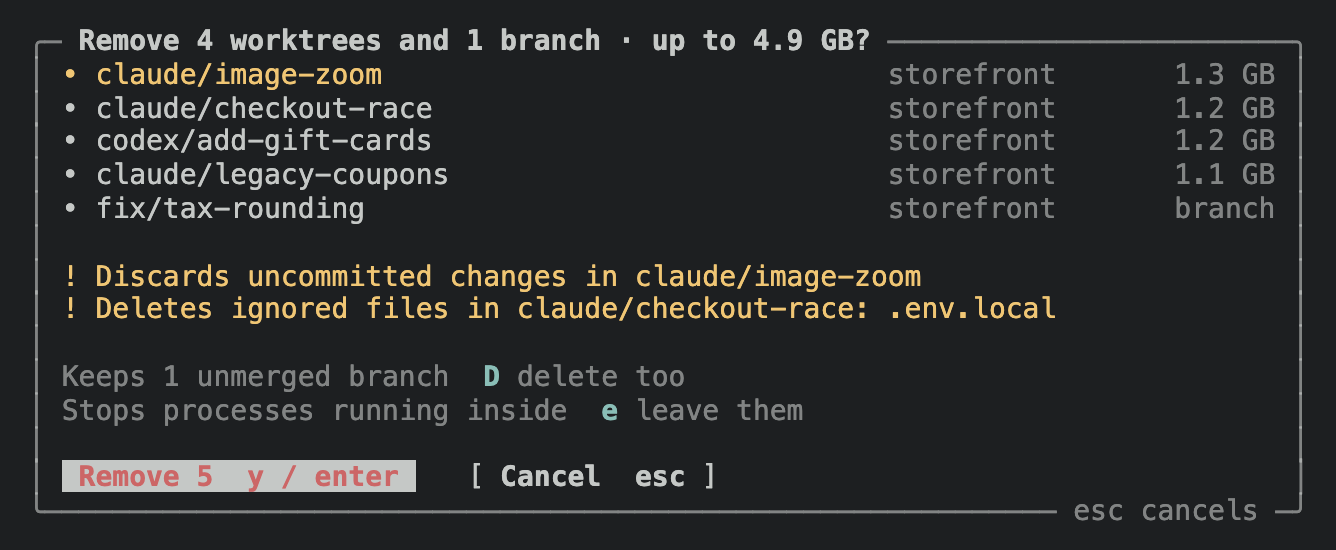
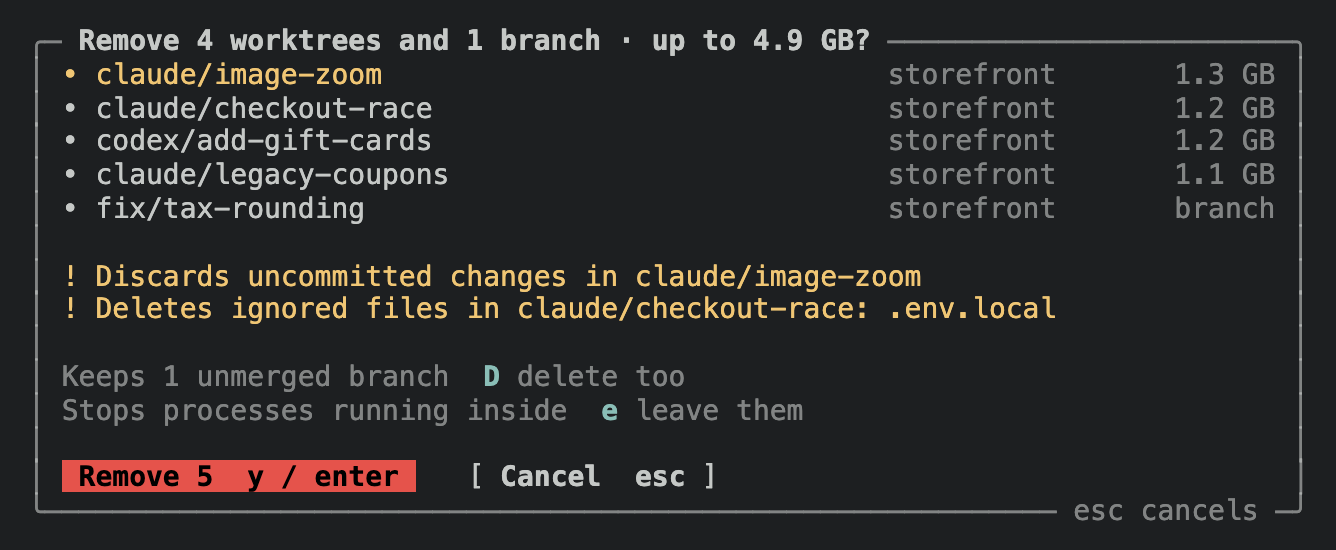
fix: make the dialogs' confirm button readable in dark and light terminals (#61)
## Symptom

The remove dialog's confirm button, `Remove N y / enter`, showed red
text on the terminal's foreground color instead of a red block: red on
light gray in a dark theme, red on near-black in a light theme. Both are
hard to read, and it is the dialog's main action. The prune dialog's
`Prune y / enter` had the same problem. The README's remove-dialog image
showed it too.

## Root cause

`buttons()` in `src/ui/render/dialogs.ts` styled the button `{ fg:
theme.broken, reverse: true }`. OpenTUI applies reverse by swapping the
foreground and background in its buffer and *also* emits the reverse
attribute, so the terminal swaps them back. `capture-pane -e` showed
`ESC[0;1;7mESC[48;5;1m`: red background plus reverse, which reads as red
text on the foreground color. Reverse with no foreground color (the
active tab, the search cursor) emits only `7` and renders as intended.
No other place in `src/ui` combines a foreground color with reverse.

## Fix

The button no longer uses reverse. It sets both colors from two new
theme entries, `confirmBg` and `confirmFg`, picked by the terminal's
light or dark mode the way `focusBg` and `toastBg` are (#59):

- dark (and unknown) mode: bold black on `#e5534b`
- light mode: bold white on `#c62828`

Text contrast is 5.7:1 and 5.6:1. The block stands out from the
terminal: 4.5:1 against a `#1d1f21` dark background, 5.6:1 against
white. The theme switches live when the terminal does.

Alternatives considered:
[…]

Changed region(s): [[0.0307, 0.8345, 0.3376, 0.8964]]

diff --git a/tests/e2e/regressions.test.ts b/tests/e2e/regressions.test.ts
@@ -2,7 +2,9 @@ import { expect, test } from "bun:test";
 import { chmod, mkdir, rm, stat, utimes } from "node:fs/promises";
 import { join } from "node:path";
 import type { Subprocess } from "bun";
+import { TextAttributes } from "@opentui/core";
 import { sizeLabel } from "../../src/ui/format";
+import { createTheme } from "../../src/ui/theme";
 import {
   dialog,
   dialogRow,
@@ -402,3 +404,46 @@ for (const width of [120, 80]) {
     TEST_TIMEOUT,
   );
 }
+
+test(
+  "#61: the remove and prune dialogs' confirm button is contrasting text on a red block, never reverse video, in dark and light terminals",
+  () =>
+    inSandbox(async (sandbox) => {
+      const repo = await sandbox.repo("alpha");
+      await repo.mergedWorktree("done");
+      await repo.deletedWorktree("gone");
+      await withApp(sandbox, { width: 120, name: "B58" }, async (app) => {
+        const button = async (label: string) => {
+          const span = await app.span(label);
+          return (
+            span && {
+              fg: span.fg.toInts(),
+              bg: span.bg.toInts(),
+              reverse: span.attributes & TextAttributes.INVERSE,
+            }
+          );
+        };
+        const colors = (mode: "dark" | "light") => {
+          const theme = createTheme(mode);
+          return { fg: theme.confirmFg.toInts(), bg: theme.confirmBg.toInts(), reverse: 0 };
+        };
+        await app.settled();
+        await app.focus("done");
+        await app.press("x");
+        await app.waitFor("╭─ Remove");
+        expect(await button("Remove 1  y / enter")).toEqual(colors("dark"));
+        app.switchTheme("light");
+        expect(await button("Remove 1  y / enter")).toEqual(colors("light"));
+        app.switchTheme("dark");
+        expect(await button("Remove 1  y / enter")).toEqual(colors("dark"));
+        await app.press("escape");
+        await app.waitFor((text) => !text.includes("╭─"));
+        await app.focus("gone");
+        await app.press("enter");
+        await app.waitFor("╭─ Prune");
+        app.switchTheme("light");
+        expect(await button("Prune  y / enter")).toEqual(colors("light"));
+      });
+    }),
+  TEST_TIMEOUT,
+);

diff --git a/tests/support/app.ts b/tests/support/app.ts
@@ -1,7 +1,7 @@
 import { mkdir, readFile, stat, writeFile } from "node:fs/promises";
 import { tmpdir } from "node:os";
 import { join } from "node:path";
-import type { KeyEvent } from "@opentui/core";
+import type { CapturedSpan, KeyEvent } from "@opentui/core";
 import { createTestRenderer } from "@opentui/core/testing";
 import type { RepoSource } from "../../src/core/scan/discovery";
 import type { CommandRunner } from "../../src/core/types";
@@ -28,6 +28,10 @@ export interface App {
   press(key: string): Promise<void>;
   type(text: string): Promise<void>;
   frame(): Promise<string>;
+  /** Renders a frame and returns the first span whose text contains `text`, with its colors and attributes. */
+  span(text: string): Promise<CapturedSpan | undefined>;
+  /** Switches to a dark or light terminal theme as a terminal does: announces the change, then answers the color query. */
+  switchTheme(mode: "dark" | "light"): void;
   /** Renders until the frame matches, and returns that frame; throws with the last frame on timeout. */
   waitFor(match: FrameMatch, options?: { timeout?: number }): Promise<string>;
   /**
@@ -174,6 +178,22 @@ export async function startApp(
       for (const char of text) await press(char === " " ? "space" : char);
     },
     frame,
+    async span(text) {
+      await frame();
+      return setup
+        .captureSpans()
+        .lines.flatMap(({ spans }) => spans)
+        .find((span) => span.text.includes(text));
+    },
+    switchTheme(mode) {
+      const [fg, bg] = mode === "light" ? ["0000", "ffff"] : ["ffff", "0000"];
+      const stdin = setup.renderer.stdin;
+      stdin.emit("data", Buffer.from(`\x1b[?997;${mode === "light" ? 2 : 1}n`));
+      stdin.emit(
+        "data",
+        Buffer.from(`\x1b]10;rgb:${fg}/${fg}/${fg}\x1b\\\x1b]11;rgb:${bg}/${bg}/${bg}\x1b\\`),
+      );
+    },
     waitFor,
     frames,
     async close() {

diff --git a/tests/theme.test.ts b/tests/theme.test.ts
@@ -1,0 +1,30 @@
+import { expect, test } from "bun:test";
+import { RGBA } from "@opentui/core";
+import { createTheme } from "../src/ui/theme";
+
+/** WCAG 2 contrast ratio between two colors. */
+function contrast(a: RGBA, b: RGBA): number {
+  const luminance = (color: RGBA) => {
+    const [r, g, b] = color.toInts().map((value) => {
+      const channel = value / 255;
+      return channel <= 0.04045 ? channel / 12.92 : ((channel + 0.055) / 1.055) ** 2.4;
+    });
+    return 0.2126 * r! + 0.7152 * g! + 0.0722 * b!;
+  };
+  const [light, dark] = [luminance(a), luminance(b)].sort((x, y) => y - x);
+  return (light! + 0.05) / (dark! + 0.05);
+}
+
+test("the confirm button's text is readable on its red, and the red stands out from the terminal, in every mode (#61)", () => {
+  const black = RGBA.fromHex("#000000");
+  const white = RGBA.fromHex("#ffffff");
+  for (const [mode, terminal] of [
+    ["dark", black],
+    [null, black],
+    ["light", white],
+  ] as const) {
+    const theme = createTheme(mode);
+    expect(contrast(theme.confirmFg, theme.confirmBg)).toBeGreaterThanOrEqual(4.5);
+    expect(contrast(theme.confirmBg, terminal)).toBeGreaterThanOrEqual(3);
+  }
+});

diff --git a/src/ui/theme.ts b/src/ui/theme.ts
@@ -10,11 +10,14 @@ export interface Theme {
   accent: RGBA;
   focusBg: RGBA;
   toastBg: RGBA;
+  confirmBg: RGBA;
+  confirmFg: RGBA;
 }
 
 /**
  * Semantic colors use the terminal's own ANSI palette, so they follow the user's theme.
- * Only the focus bar is a fixed tint, picked for the terminal's light or dark mode.
+ * The tints and the dialogs' red confirm button are fixed, picked for the terminal's light or dark mode,
+ * since text on the palette's own red can't be kept readable.
  */
 export function createTheme(mode: "dark" | "light" | null): Theme {
   const light = mode === "light";
@@ -27,6 +30,8 @@ export function createTheme(mode: "dark" | "light" | null): Theme {
     accent: RGBA.fromIndex(6),
     focusBg: RGBA.fromHex(light ? "#dfe3ea" : "#2b303b"),
     toastBg: RGBA.fromHex(light ? "#f3ead2" : "#3a3222"),
+    confirmBg: RGBA.fromHex(light ? "#c62828" : "#e5534b"),
+    confirmFg: RGBA.fromHex(light ? "#ffffff" : "#000000"),
   };
 }
 

diff --git a/src/ui/render/dialogs.ts b/src/ui/render/dialogs.ts
@@ -57,7 +57,7 @@ export function withConfirm(
 
 function buttons(theme: Theme, verb: string): Line {
   return [
-    seg(` ${verb}  y / enter `, { fg: theme.broken, reverse: true, bold: true }),
+    seg(` ${verb}  y / enter `, { fg: theme.confirmFg, bg: theme.confirmBg, bold: true }),
     seg("   "),
     seg("[ "),
     seg("Cancel  esc", { bold: true }),

diff --git a/.claude/skills/verify-wt-dash/features/remove-dialog.md b/.claude/skills/verify-wt-dash/features/remove-dialog.md
@@ -24,7 +24,8 @@ Enter or `x` opens one confirmation dialog listing each row and its size, the to
 8. A worktree with uncommitted changes on a branch that `main` has moved past (Worktrunk lists it `behind`, integration reason `ancestor`; arrange it with Git as in [rescan.md](rescan.md): a worktree on a new branch from `main`, a commit on `main`, an edit in the worktree, then `r`): its dialog reads `Merged branches are deleted.`, not `Keeps 1 unmerged branch`, and after `y` the branch is gone from `git branch` and the `removalsLog` entry has `flags: ["-f", "--reap"]` and `branchOutcome: "deleted"` (#23).
 9. Ignored files that aren't caches are named (#45). Arrange them as the instance's user: `git config --global core.excludesFile "$HOME/.gitignore_global"` with `.env*` and `*.db` in that file, then create `.env.local`, `.env.prod`, `.env.test` and `dev.db` in `api`'s `feature/assets` worktree (under `paths.worktrees`; it already holds `node_modules/` and `dist/`) and `dev.db` in `feature/login`, and press `r`. With only `feature/assets` selected the dialog shows `! Deletes ignored files in feature/assets: .env.local, .env.prod +2 more` (two names, then the rest counted), keeps `Nothing uncommitted. Ignored files and caches go with them.`, and never mentions `node_modules` or `dist`. With `feature/login` also selected the note reads `! Deletes ignored files in feature/assets and feature/login`, and past two worktrees it shortens like the uncommitted note. `web › feature/bundle`, whose only ignored paths are `node_modules/` and `dist/`, shows no such note. Check wide and narrow; `y` still removes (`flags: ["--reap"]`).
 10. Running processes (#44): with a server running in `api › feature/assets` and found by a scan (arrange it as in [details.md](details.md) check 9), its dialog reads `Running in feature/assets: 1 process · :8765` on the line under `Stops processes running inside  e leave them`, and keeps it when `e` turns that line into `Processes inside keep running  e stop them`. With three such worktrees selected it reads `Processes are running in agent/old-session, feature/assets +1 more`. After `y` with processes stopped, the server's pid is gone (`kill -0 <pid>` fails), `lsof -nP -iTCP:8765 -sTCP:LISTEN` prints nothing, and the `removalsLog` entry has `flags: ["--reap"]`.
-11. The developer's own `~/.cache/wt-dash/removals.log` is unchanged (compare its `ls -l` before and after).
+11. The confirm button is a solid red block whose text contrasts with it in both themes (#58), never reverse video. Through `t capture-pane -p -e -t app | cat -v` the button reads `^[[0;1m^[[38;2;0;0;0m^[[48;2;229;83;75m Remove 1  y / enter ` (bold black on a light red) with no `7` (reverse) attribute. On a tmux server whose `window-style` is `fg=#24292f,bg=#ffffff` (`t set -g window-style …` while the app runs; the app follows the switch) it turns `38;2;255;255;255` on `48;2;198;40;40` (white on a darker red); `fg=#c5c8c6,bg=#1d1f21` turns it back. Render each with `image` (`--theme light` for the white one): light or dark text on a red block, never red text. The prune dialog's `Prune  y / enter` is the same button. Check wide and narrow.
+12. The developer's own `~/.cache/wt-dash/removals.log` is unchanged (compare its `ls -l` before and after).
 
 ## Traps
 
